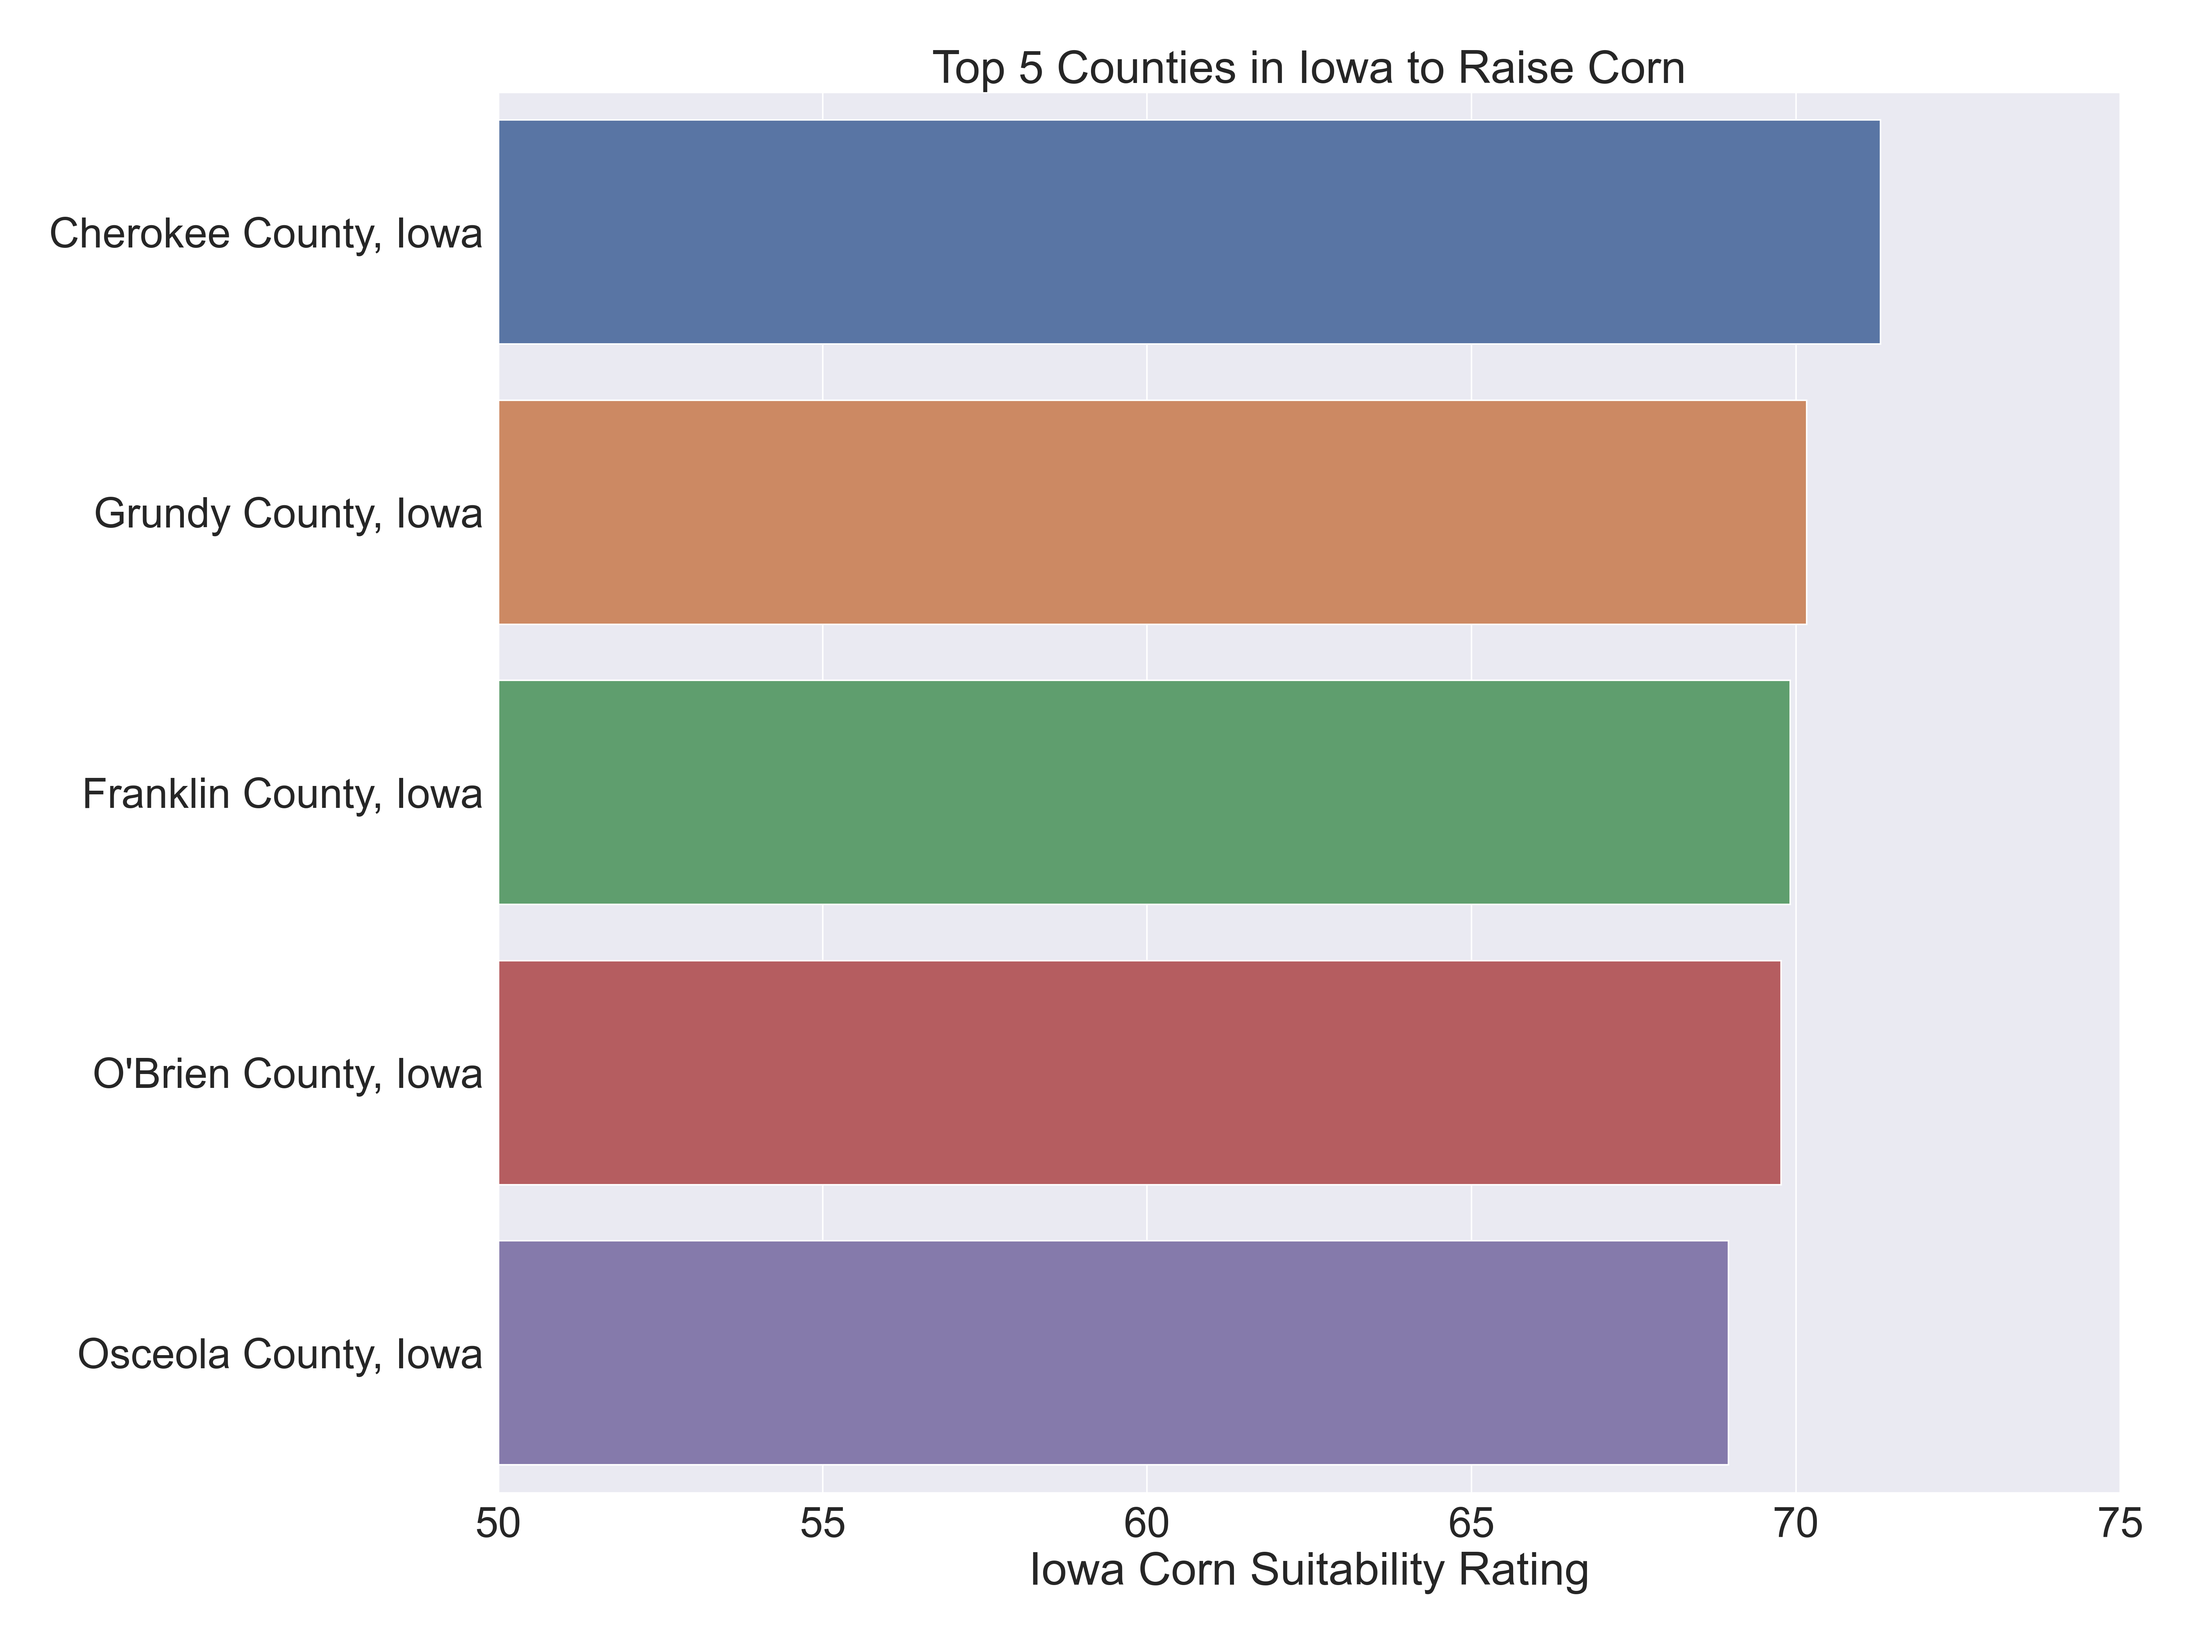
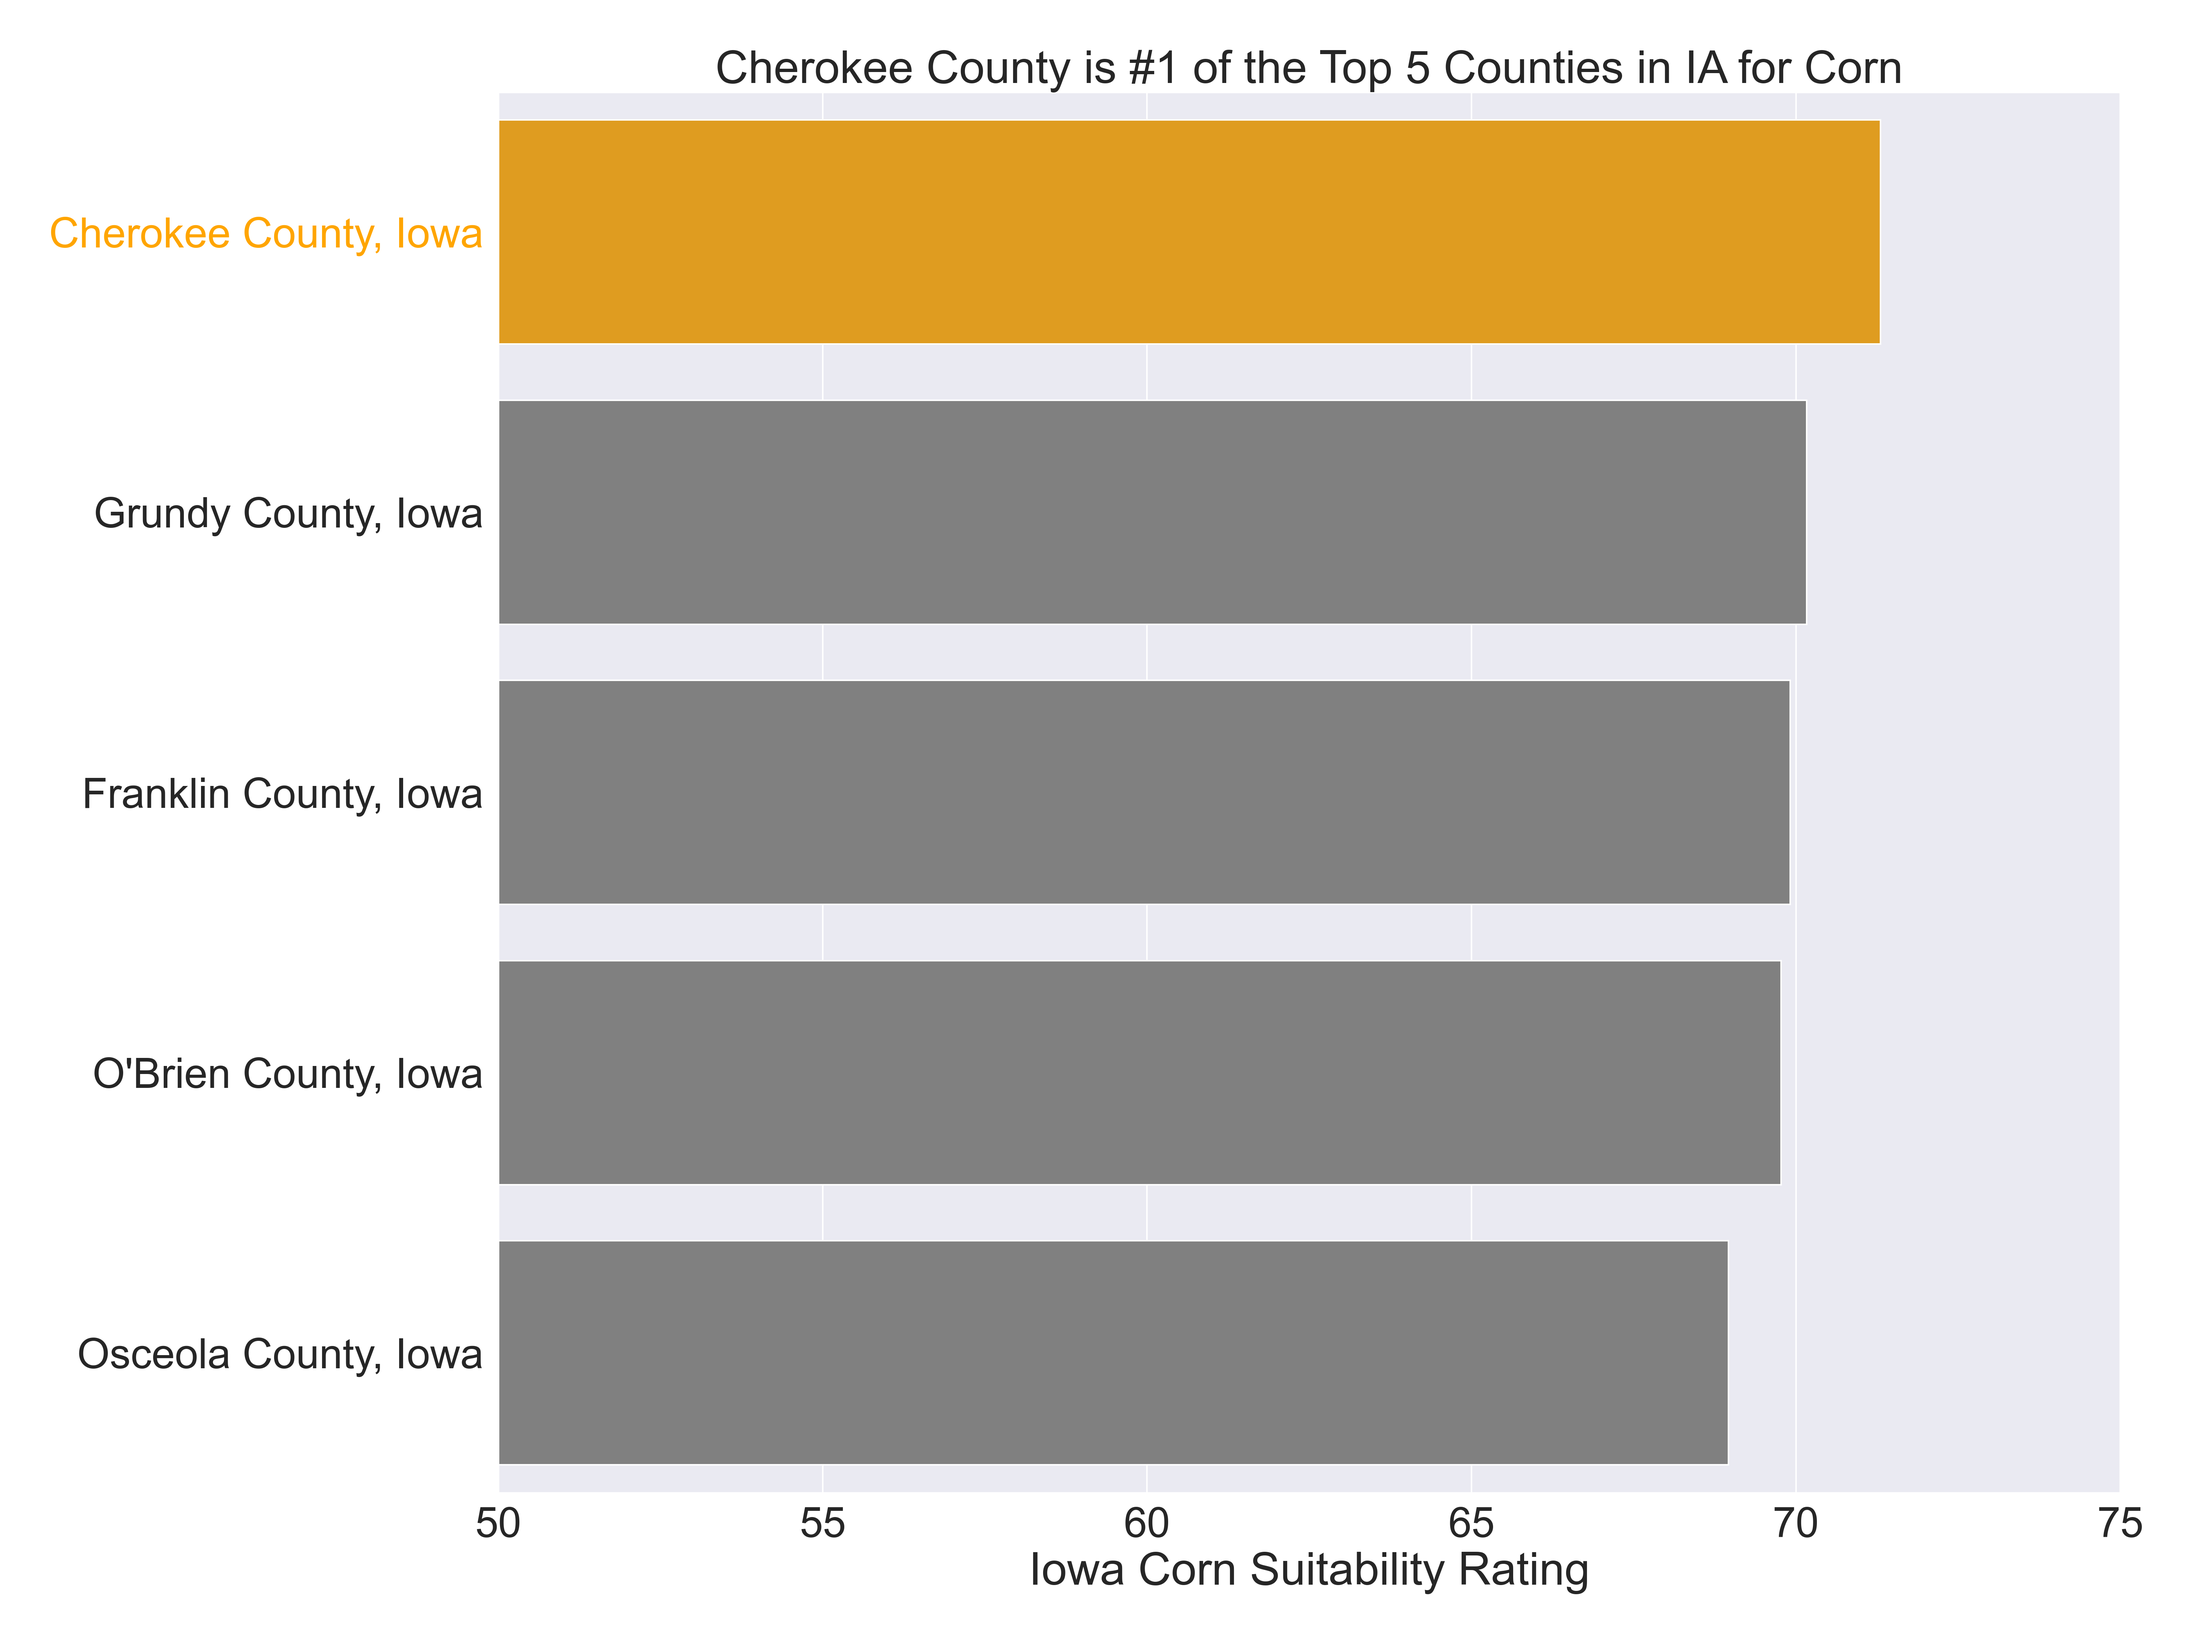
Adding final blog post

diff --git a/_posts/2022-12-07-Corn-Corn-Corn.md b/_posts/2022-12-07-Corn-Corn-Corn.md
@@ -1,0 +1,31 @@
+---
+# layout: post
+title:  Corn Corn Corn
+date:   2022-12-07
+categories: [API, Data Visualization]
+tags: [python, r, pandas, seaborn, iowa, corn, soil]
+description: I made a map of the best counties in Iowa for growing corn
+---
+# Corn Corn Corn
+
+For this post, I’d like to wrap up a big project I’ve been working on for the past several weeks working with soil data from my home state of Iowa. As I’ve gone along the process, I’ve mainly focused on how different variables affect the growth of corn, as measured by the handy-dandy “Iowa Corn Suitability Rating” used by the USDA.
+
+
+## The Story
+I first began by finagling my way into retrieving data from the [Web Soil Survey](https://websoilsurvey.sc.egov.usda.gov/App/HomePage.htm). I explored the data that I had in [this last post](https://www.datasciencemagic.org/posts/Dirtylicious-Data-Exploration/) by creating some fun graphics and charts. After I finished my last post though, I realized that it was missing something very, very important. I needed a map!
+
+Creating a map with polygonal data was something I had never even imagined attempting in my wildest dreams; and let me tell you those dreams quickly became nightmares. It wasn't until I decided to look outside of the Web Soil Survey for easy-to-use geojson data that I was finally able to crack the code. I used [geojson data provided by the State of Iowa itself](https://www.arcgis.com/home/item.html?id=8a1c2d500d8847d79aa47d45d44eb133#overview) merged with my own data to finally provide this last map.
+
+## The Map
+
+
+
+
+## In Summary
+The map helped me realize that a lot of the northeastern Iowa counties are the best for growing corn. The bar graph below shows the top counties, and if you compare that to the map you'll see that most of them are located in the northeastern corner. I'll have to dig a little deeper in future posts as to why that may really be, but for now, plan on purchasing farmland in Cherokee county. ;)
+
+<img src="https://github.com/sspackman99/sspackman99.github.io/raw/main/assets/images/county.png" alt="" style="width:1000px;"/>
+
+If you want to see all the code, check out my Github repository [here](https://github.com/sspackman99/wss_data_access).
+
+Let me know in the comments below what you'd like me to look into next! I'm thinking I'd like to do more with geodata and plotting different soils rather than counties, what do you think I should do though?
